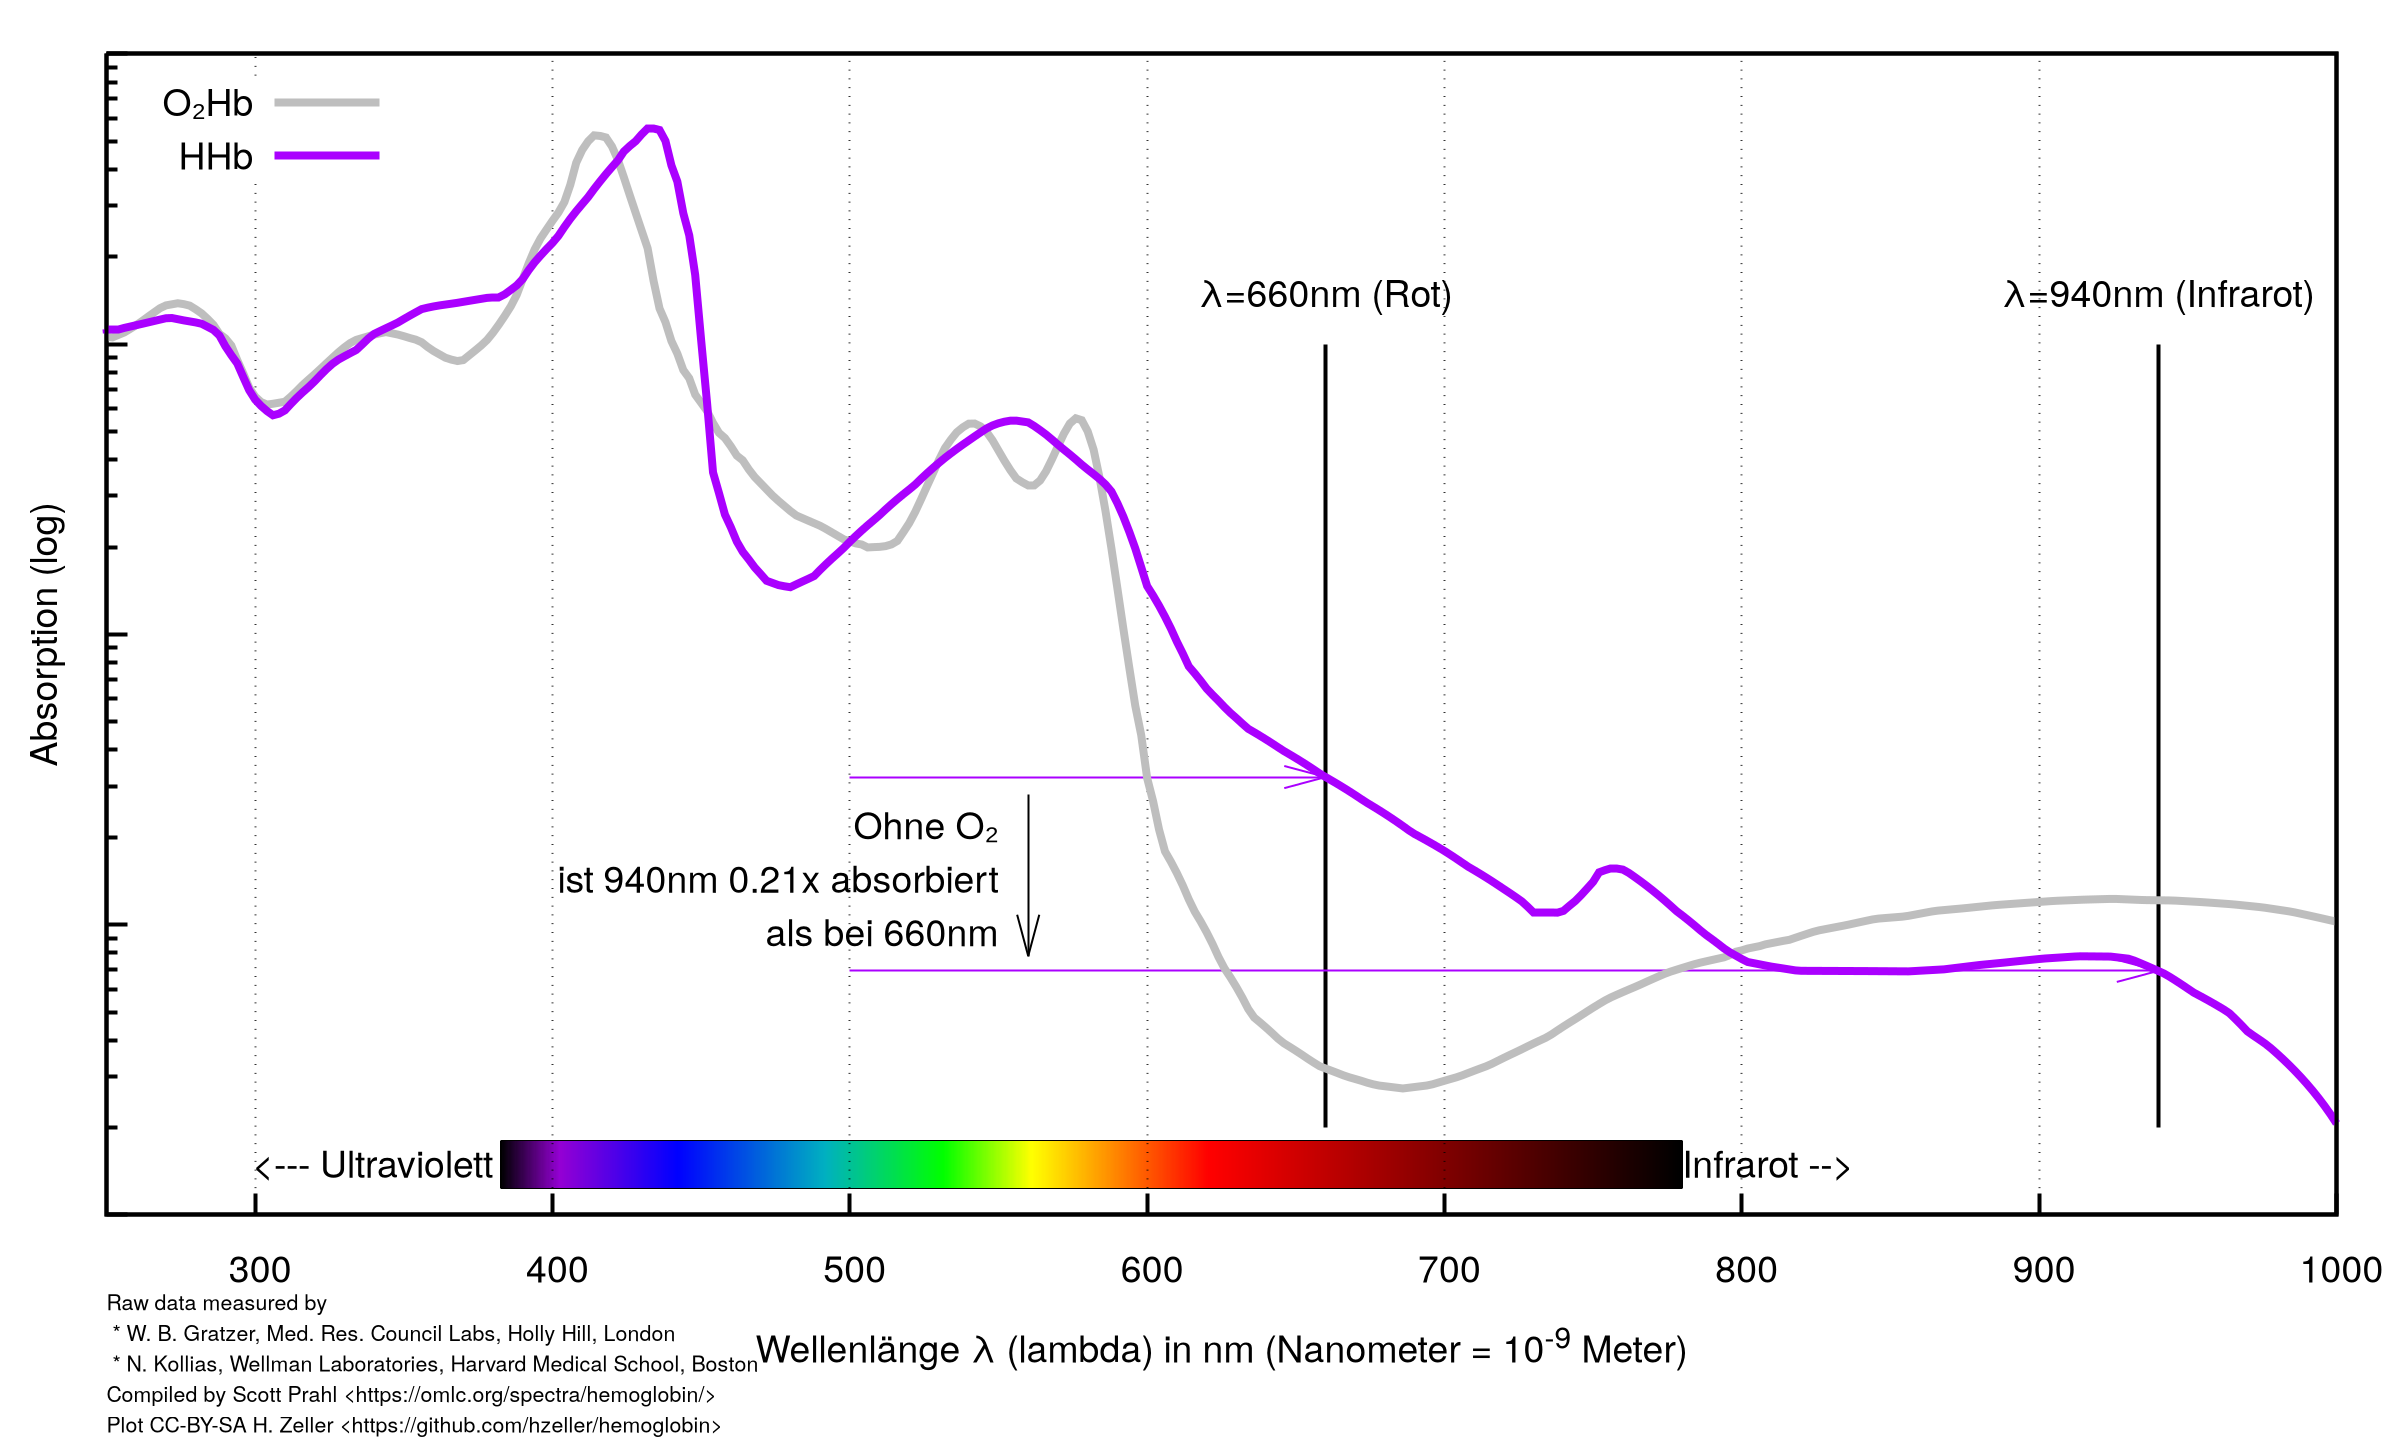
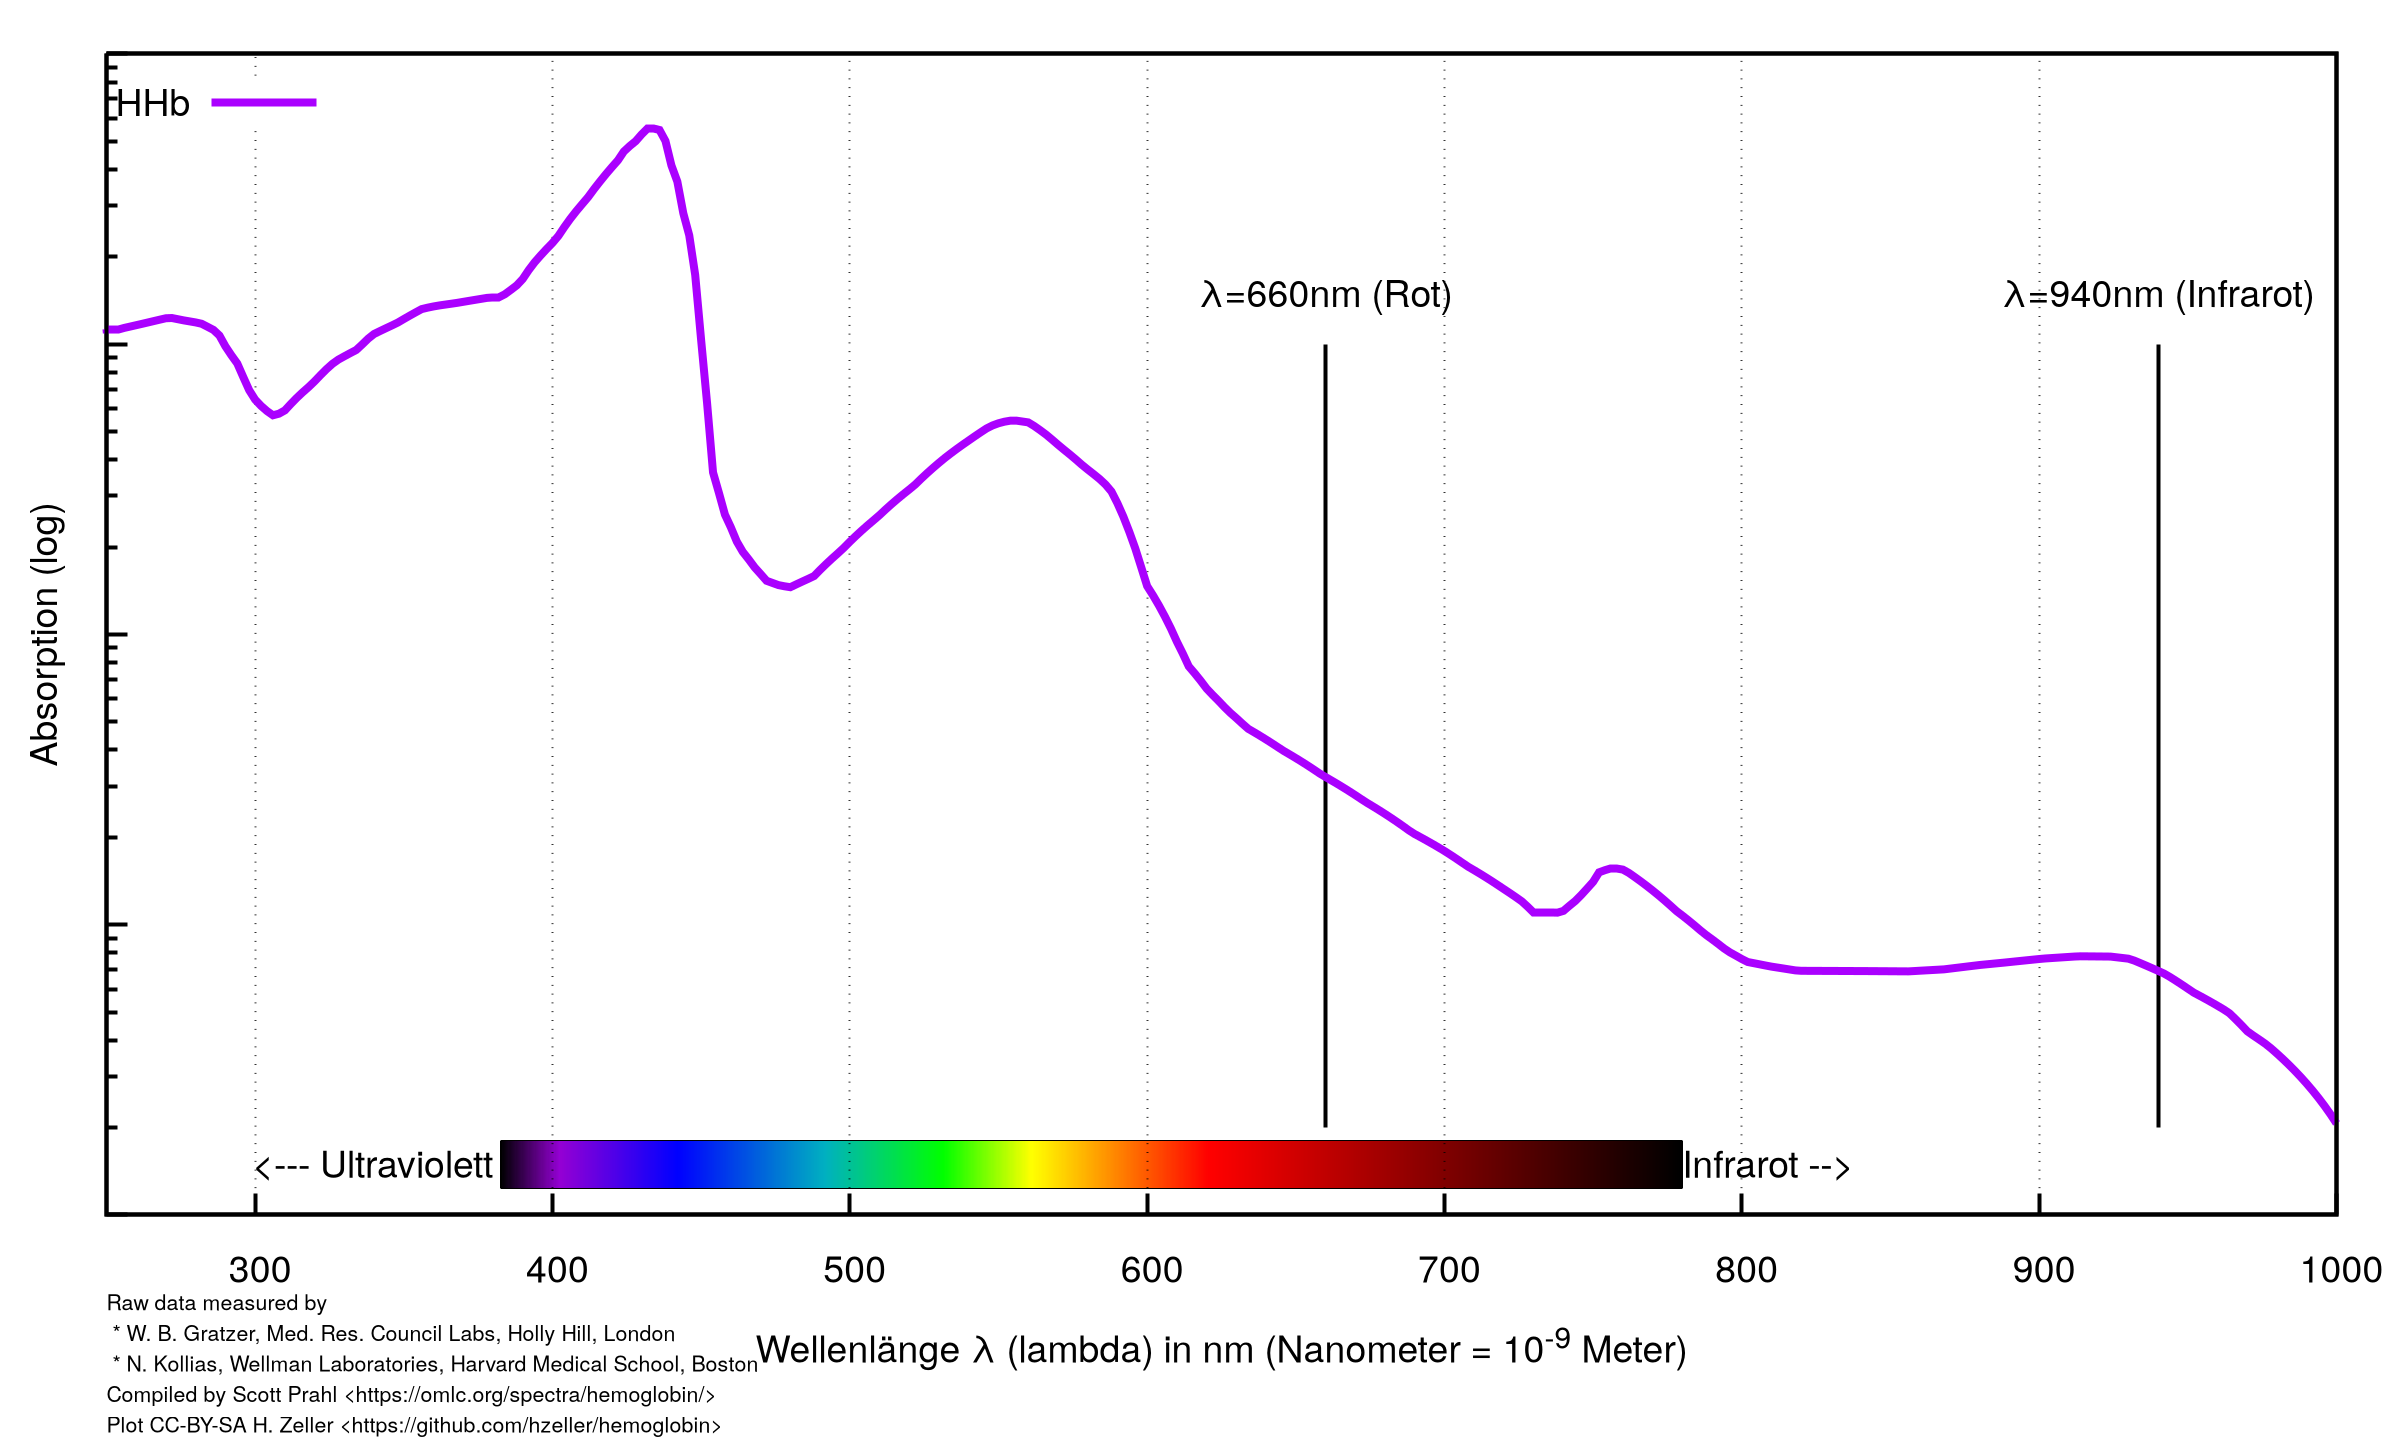
Single out saturated and unsaturated graphs for simplicity.

diff --git a/README.md b/README.md
@@ -14,20 +14,31 @@ Wenn man also nur bei einer Wellenlaenge schaut, dann sieht man mehr oder
 weniger Licht, aber weil man kein Vergleichswert hat, kann man daraus noch
 nicht auf die Konzentration schliessen.
 
-Schaut man sich an, was zwei Sensoren bei 660nm und 940nm messen, dann sieht
+Wenn man sich aber die Absorption der Oxygenierungslevel bei unterschiedlichen Farben ansieht
+erkennt man, dass sich besonders viel um 660nm und 940nm tut:
+
+
+| Gesättigt O₂               | Ungesättigt O₂               |
+|----------------------------|------------------------------|
+| ![](img/saturated-hem.png) | ![](img/unsaturated-hem.png) |
+
+
+Wenn man die Werte von Sensoren bei 660nm und 940nm vergleicht, dann sieht
 man, dass bei O₂-gesattigtem Blut 3.8x mehr licht im Infraroten absorbiert wird
 wie bei 660nm Rot.
+
 Und bei ungesaettigtem Blut nur 0.21x soviel (oder
 4.6x 'weniger'). Und das ist ja unabhaengig vom Finger: wenn einer mit doppelt
 so dickem Finger gemessen wird, dann misst man in beiden Wellelängen nur
 die Hälfte; aber da ja die Messung bei beiden Wellenlängen auf die Hälfte
 reduziert sind, ist ja das erwartete Verhältnis von 3.8x immer noch gleich.
 
-![](img/saturated-hem.png)
+![](img/saturated-hem-emphasize.png)
 
-![](img/unsaturated-hem.png)
+![](img/unsaturated-hem-emphasize.png)
 
-Also dadurch dass man bei beiden Wellenlaengen misst, rechnet sich das raus.
+Also dadurch dass man bei beiden Wellenlaengen misst, rechnet sich das raus, weil man sich
+nur das Verhältnis ansieht.
 
 Das gleiche, wenn sich das Lumen aendert ('pumpen' im Finger): mal ist mehr,
 mal weniger Blut in demselben Finger, aber bei voller Sättigung wird man immer
